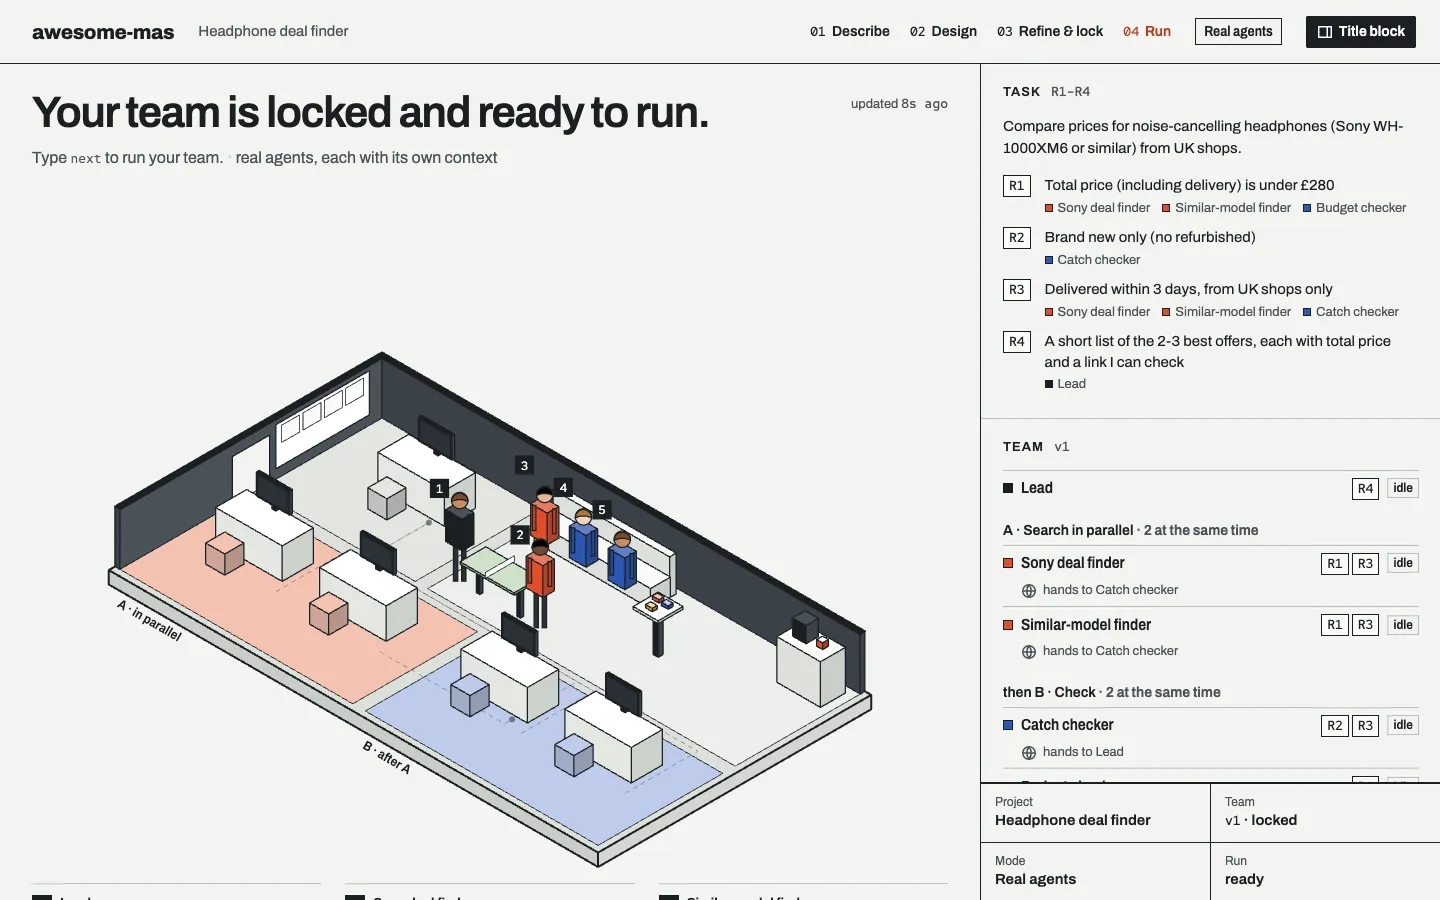
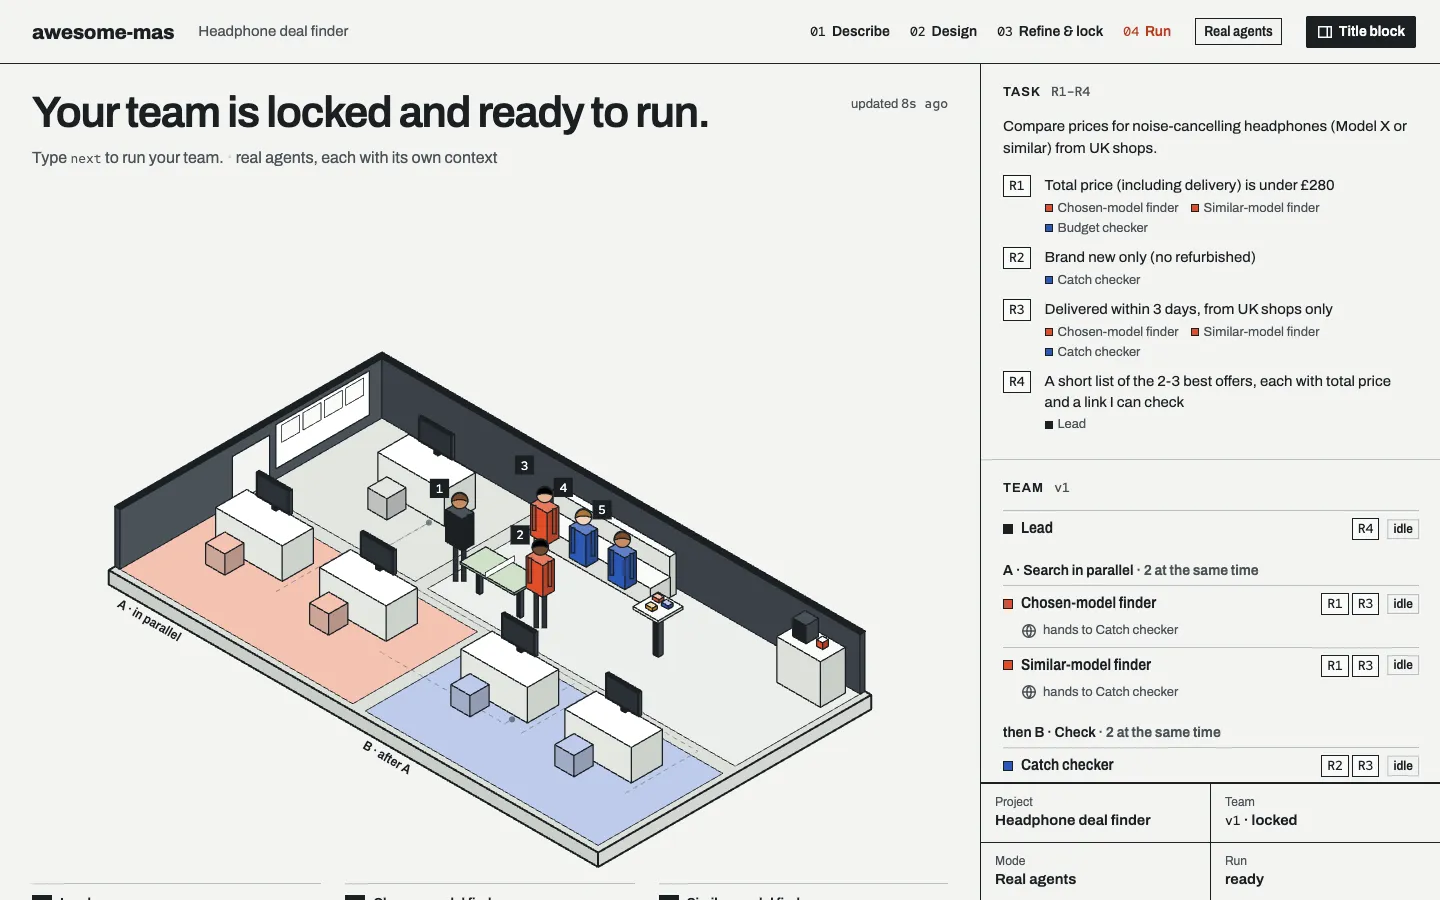
Open the panel in every conversation; no brands in the tutorial
The panel was opened only during setup, so a student who set up at home
and reopened the project in class saw no browser page. The assistant now
opens it at the start of every conversation, says where office/index.html
is in case nothing appeared, and opens it again when the student asks.
The Windows line is split into PowerShell (Start-Process) and Command
Prompt / Git Bash (start ""), since start "" fails in PowerShell. The
tutorial and README explain what to do if the panel didn't open.

The tutorial and README examples no longer name products or shops: the
example task says "one model I already have in mind", the exact-model
role is the Chosen-model finder, and the six screenshots are rendered
from a de-branded copy of the price-compare example.

diff --git a/docs/index.html b/docs/index.html
@@ -259,7 +259,7 @@
       </div>
       <figure class="shot">
         <img src="img/step4-result.webp" width="1440" height="900" alt="The awesome-mas panel after a finished run: an axonometric office where five agents gathered at the party table, and on the right the result: a shortlist of three headphone offers with total prices and links.">
-        <figcaption>Where you will end: your team in the office, and the answer to your task on the right. This is a real run from the price-comparison example.</figcaption>
+        <figcaption>Where you will end: your team in the office, and the answer to your task on the right. This is a real run from the price-comparison example, with product and shop names replaced by placeholders.</figcaption>
       </figure>
     </div>
 
@@ -403,6 +403,7 @@
 
           <h3>A4 · Put the chat and the panel side by side</h3>
           <p>From now on you <b>talk</b> in your assistant and <b>watch</b> the panel. Put the chat on the left half of your screen and the panel on the right. The panel updates by itself; if it ever looks stuck, reload the page.</p>
+          <p>Your assistant opens the panel at setup and again at the start of every new conversation. If no browser page appeared, type <code>open the panel</code>, or double-click <code>office/index.html</code> in your folder (e.g. <code>my-mas</code> on your Desktop).</p>
         </section>
 
         <!-- 1 -->
@@ -414,9 +415,9 @@
             <div><dt>You get</dt><dd>Requirements <span class="num">R1</span>, <span class="num">R2</span>…</dd></div>
             <div><dt>Ingredient</dt><dd>Memory</dd></div>
           </dl>
-          <p>Type <code>next</code>. Your assistant interviews you with <b>five questions, one at a time</b>, and waits for each answer. Answer in your own words, in any language. The example answers below are from the real price-comparison example in your folder.</p>
+          <p>Type <code>next</code>. Your assistant interviews you with <b>five questions, one at a time</b>, and waits for each answer. Answer in your own words, in any language. The example answers below are from the real price-comparison example in your folder, without product names.</p>
           <ol class="qs">
-            <li><span class="q-n">Q1</span><div><p class="q-t">What should your assistant help you do?</p><p class="q-h">Say the task in one or two sentences.</p><p class="q-ex"><b>Example</b>Compare prices before I buy noise-cancelling headphones (Sony WH-1000XM6 or similar).</p></div></li>
+            <li><span class="q-n">Q1</span><div><p class="q-t">What should your assistant help you do?</p><p class="q-h">Say the task in one or two sentences.</p><p class="q-ex"><b>Example</b>Compare prices before I buy noise-cancelling headphones (one model I already have in mind, or similar).</p></div></li>
             <li><span class="q-n">Q2</span><div><p class="q-t">What are your preferences and limits?</p><p class="q-h">Budget, time, things to avoid. Numbers help: they become checkable requirements.</p><p class="q-ex"><b>Example</b>Under £280 total including delivery, must be brand new (not refurbished), delivered within 3 days, UK shops only.</p></div></li>
             <li><span class="q-n">Q3</span><div><p class="q-t">What does a good result look like? How will you judge it?</p><p class="q-h">The shape of the answer you want to receive.</p><p class="q-ex"><b>Example</b>A short list of the 2–3 best offers with total price and links I can check.</p></div></li>
             <li><span class="q-n">Q4</span><div><p class="q-t">Will you do this again? How often?</p><p class="q-h">This tells your assistant whether a reusable team is worth it.</p><p class="q-ex"><b>Example</b>Yes, I'll use it again for a monitor next month.</p></div></li>
@@ -465,7 +466,7 @@
           <table>
             <thead><tr><th scope="col">Role</th><th scope="col">Serves</th><th scope="col">Why it exists</th><th scope="col">Group</th></tr></thead>
             <tbody>
-              <tr><td>Sony deal finder</td><td><span class="num">R1 R3</span></td><td>Searches UK shops for the exact model</td><td><span class="num">A</span></td></tr>
+              <tr><td>Chosen-model finder</td><td><span class="num">R1 R3</span></td><td>Searches UK shops for the model you picked</td><td><span class="num">A</span></td></tr>
               <tr><td>Similar-model finder</td><td><span class="num">R1 R3</span></td><td>A different source: similar headphones, at the same time</td><td><span class="num">A</span></td></tr>
               <tr><td>Catch checker</td><td><span class="num">R2 R3</span></td><td>An independent check for refurbished stock and slow delivery</td><td><span class="num">B</span></td></tr>
               <tr><td>Budget checker</td><td><span class="num">R1</span></td><td>An independent check of every total, delivery included</td><td><span class="num">B</span></td></tr>
@@ -502,7 +503,7 @@
             <li><em>“Add a budget checker that re-checks every total.”</em></li>
             <li><em>“Merge the two finders into one.”</em> (cheaper, but no longer at the same time)</li>
             <li><em>“The catch checker should also check the seller is in the UK.”</em></li>
-            <li><em>“Remove the similar-model finder; I only want the Sony.”</em></li>
+            <li><em>“Remove the similar-model finder; I only want the model I picked.”</em></li>
             <li><em>“Why do we need two checkers?”</em> (questions are fine too)</li>
           </ul>
           <p>Push back on every extra agent: more agents means more tokens and more time. If a change leaves a requirement unserved, your assistant tells you, but the choice stays yours.</p>
@@ -538,7 +539,7 @@
             <li><b>Click a person</b> to follow only their thread; everything else dims. Click again to go back.</li>
           </ul>
           <figure class="shot see">
-            <img src="img/step4-run.webp" width="1440" height="900" loading="lazy" decoding="async" alt="The panel during a run: the headline reads that the Sony deal finder and the Similar-model finder are working at the same time; both sit typing in the vermilion room of group A while the two checkers wait in the blue room of group B.">
+            <img src="img/step4-run.webp" width="1440" height="900" loading="lazy" decoding="async" alt="The panel during a run: the headline reads that the Chosen-model finder and the Similar-model finder are working at the same time; both sit typing in the vermilion room of group A while the two checkers wait in the blue room of group B.">
             <figcaption>During the run: group A's two finders work at the same time while group B's checkers wait their turn.</figcaption>
           </figure>
           <h3 class="minor">When it's done</h3>
@@ -642,6 +643,7 @@
           <details><summary><code>agy</code> is not found.</summary><div><p>Close the terminal, open a new one and paste the A1 line again: it skips the install if Antigravity is already there. Still not found? Read the install's last lines: it says where it put <code>agy</code>. The official guide is at <a href="https://antigravity.google/docs/getting-started?tab=cli">antigravity.google</a>.</p></div></details>
           <details><summary>The setup sentence fails: it can't download.</summary><div><p>Use the ZIP: download it from the link under A2, unzip it, move everything inside <code>awesome-mas-main</code> into your folder, then open the folder in your tool and type <code>next</code>.</p></div></details>
           <details><summary>Every file edit asks me for permission.</summary><div><p>You started your tool without the no-questions option. In the Antigravity CLI, type <code>/exit</code>, then start it again in your folder with <code>agy --dangerously-skip-permissions</code> (Claude Code: <code>claude --dangerously-skip-permissions</code>; Codex: <code>codex --search --dangerously-bypass-approvals-and-sandbox</code>). In Claude Code or the Claude app, restart it in this folder and choose to trust it. In other tools, choose the mode that accepts file edits in this folder.</p></div></details>
+          <details><summary>The panel didn't open.</summary><div><p>Type <code>open the panel</code> in your assistant. Or open your folder (e.g. <code>my-mas</code> on your Desktop) and double-click <code>office/index.html</code>. Keep that page open: it follows every MAS in this folder.</p></div></details>
           <details><summary>The panel doesn't update.</summary><div><p>Reload the browser page. Make sure you opened the <code>office/index.html</code> inside your project folder, not a copy somewhere else.</p></div></details>
           <details><summary>My assistant doesn't follow the steps.</summary><div><p>Type <code>Read AGENTS.md and follow it.</code> and then <code>next</code>.</p></div></details>
           <details><summary>It says role-play instead of real agents.</summary><div><p>Your tool can't start separate agents here, so your assistant plays each role in turn. The steps and the office are the same; it just takes longer, and the panel says so honestly.</p></div></details>

diff --git a/README.md b/README.md
@@ -18,7 +18,7 @@ you shape the team by chatting, and you watch the agents work together in a live
 
 <img src="docs/img/step4-result.webp" alt="The awesome-mas panel after a finished run: an axonometric office where five agents gathered at the party table, and on the right the result: a shortlist of three headphone offers with total prices and links" width="900">
 
-<sub>Where you will end: your team in the office, and the answer to your task on the right. A real run from the price-comparison example.</sub>
+<sub>Where you will end: your team in the office, and the answer to your task on the right. A real run from the price-comparison example, with product and shop names replaced by placeholders.</sub>
 
 </div>
 
@@ -182,15 +182,17 @@ You don't need to do anything here (in an app, approve when asked). It explains 
 
 From now on you **talk** in your assistant and **watch** the panel. Put the chat on the left half of your screen and the panel on the right. The panel updates by itself; if it ever looks stuck, reload the page.
 
+Your assistant opens the panel at setup and again at the start of every new conversation. If no browser page appeared, type `open the panel`, or double-click `office/index.html` in your folder (e.g. `my-mas` on your Desktop).
+
 ## Step 1 · Describe your task
 
 > **You type** `next`, then 5 answers · **Time** about 10–15 min · **You get** requirements R1, R2… · **Ingredient** memory
 
-Type `next`. Your assistant interviews you with **five questions, one at a time**, and waits for each answer. Answer in your own words, in any language. The examples are from the real price-comparison example in your folder.
+Type `next`. Your assistant interviews you with **five questions, one at a time**, and waits for each answer. Answer in your own words, in any language. The examples are from the real price-comparison example in your folder, without product names.
 
 | | Question | Hint | Example answer |
 |---|---|---|---|
-| **Q1** | What should your assistant help you do? | Say the task in one or two sentences. | Compare prices before I buy noise-cancelling headphones (Sony WH-1000XM6 or similar). |
+| **Q1** | What should your assistant help you do? | Say the task in one or two sentences. | Compare prices before I buy noise-cancelling headphones (one model I already have in mind, or similar). |
 | **Q2** | What are your preferences and limits? | Budget, time, things to avoid. Numbers help: they become checkable requirements. | Under £280 total including delivery, must be brand new (not refurbished), delivered within 3 days, UK shops only. |
 | **Q3** | What does a good result look like? How will you judge it? | The shape of the answer you want to receive. | A short list of the 2–3 best offers with total price and links I can check. |
 | **Q4** | Will you do this again? How often? | This tells your assistant whether a reusable team is worth it. | Yes, I'll use it again for a monitor next month. |
@@ -234,7 +236,7 @@ Type `next`. Your assistant derives a team from *your* requirements: a **Lead** 
 
 | Role | Serves | Why it exists | Group |
 |---|---|---|---|
-| Sony deal finder | R1 R3 | Searches UK shops for the exact model | A |
+| Chosen-model finder | R1 R3 | Searches UK shops for the model you picked | A |
 | Similar-model finder | R1 R3 | A different source: similar headphones, at the same time | A |
 | Catch checker | R2 R3 | An independent check for refurbished stock and slow delivery | B |
 | Budget checker | R1 | An independent check of every total, delivery included | B |
@@ -263,7 +265,7 @@ This is the step where you decide. Ask for as many changes as you like, one mess
 - *“Add a budget checker that re-checks every total.”*
 - *“Merge the two finders into one.”* (cheaper, but no longer at the same time)
 - *“The catch checker should also check the seller is in the UK.”*
-- *“Remove the similar-model finder; I only want the Sony.”*
+- *“Remove the similar-model finder; I only want the model I picked.”*
 - *“Why do we need two checkers?”* (questions are fine too)
 
 Push back on every extra agent: more agents means more tokens and more time. If a change leaves a requirement unserved, your assistant tells you, but the choice stays yours.
@@ -295,7 +297,7 @@ Type `next`. Your assistant tells you honestly how the agents will run: *separat
 - **Flags:** an agent that finds a problem stands up and raises a hand, with a yellow warning, e.g. “Refurbished: breaks R2”.
 - **Click a person** to follow only their thread; everything else dims. Click again to go back.
 
-<img src="docs/img/step4-run.webp" alt="The panel during a run: the headline reads that the Sony deal finder and the Similar-model finder are working at the same time; both sit typing in the vermilion room of group A while the two checkers wait in the blue room of group B" width="720">
+<img src="docs/img/step4-run.webp" alt="The panel during a run: the headline reads that the Chosen-model finder and the Similar-model finder are working at the same time; both sit typing in the vermilion room of group A while the two checkers wait in the blue room of group B" width="720">
 
 **When it's done**, your assistant gives you the answer in a few lines and points to `outputs/result.md`. The panel shows the same result on the right, every source with a link you can open, and an evidence grade from A (you can buy or run it) to D (opinion). The team gathers for a short celebration.
 
@@ -372,6 +374,12 @@ Use the ZIP: download it from the link under A2, unzip it, move everything insid
 <summary><b>Every file edit asks me for permission.</b></summary>
 
 You started your tool without the no-questions option. In the Antigravity CLI, type `/exit`, then start it again in your folder with `agy --dangerously-skip-permissions` (Claude Code: `claude --dangerously-skip-permissions`; Codex: `codex --search --dangerously-bypass-approvals-and-sandbox`). In Claude Code or the Claude app, restart it in this folder and choose to trust it. In other tools, choose the mode that accepts file edits in this folder.
+</details>
+
+<details>
+<summary><b>The panel didn't open.</b></summary>
+
+Type `open the panel` in your assistant. Or open your folder (e.g. `my-mas` on your Desktop) and double-click `office/index.html`. Keep that page open: it follows every MAS in this folder.
 </details>
 
 <details>

diff --git a/AGENTS.md b/AGENTS.md
@@ -15,7 +15,7 @@ Each MAS lives in its own folder next to this file (e.g. `headphone-deals/`), ho
 
 **Every path in `harness/` (e.g. `me/task.md`, `mas/status/lead.js`) is inside the current MAS folder** — write `headphone-deals/me/task.md`, never a top-level `me/`. Only `home/` is shared. Never write inside another MAS folder, `examples/`, `practice/`, `office/` or `harness/`.
 
-**Start of every conversation:** before anything else, do `choose` (`harness/operations.md`) — list the MAS folders and ask "Start a new MAS, or continue one of these?" (if there are none yet, go straight to describing a new one). Do this even if `home/projects.js` names a current MAS. Skip it only when `home/env.md` is missing (then do `setup` first).
+**Start of every conversation:** before anything else, open the panel (see Opening the panel — the student may have closed the browser since last time), then do `choose` (`harness/operations.md`) — list the MAS folders and ask "Start a new MAS, or continue one of these?" (if there are none yet, go straight to describing a new one). Do this even if `home/projects.js` names a current MAS. Skip it only when `home/env.md` is missing (then do `setup` first).
 
 **In every reply after a MAS is chosen** (including short progress updates during a run), start with one short line naming it, e.g. `MAS: headphone-deals`.
 
@@ -36,6 +36,7 @@ Each MAS lives in its own folder next to this file (e.g. `headphone-deals/`), ho
 |---|---|
 | the setup sentence, or anything when `home/env.md` is missing | `setup` |
 | `new`, "new MAS", or "switch to …" / a MAS name | `choose` |
+| "open the panel", "I can't see the office" | open the panel again (see Opening the panel) |
 | `next` | the next operation — see the table below |
 | a change in plain words ("add a budget checker") | `refine` (if the team is not locked; if locked, offer `unlock`) |
 | `run again` | `run` |
@@ -75,13 +76,14 @@ The panel animates the office from `mas/status/*.js`. **Before starting the firs
 
 ## Opening the panel
 
-The panel is `office/index.html`; one open page follows every MAS. To open it in the student's browser, run **one** shell command (this is allowed):
+The panel is `office/index.html`; one open page follows every MAS. Open it at setup and at the start of every conversation. To open it in the student's browser, run **one** shell command from this folder (this is allowed):
 
 - macOS: `open office/index.html`
-- Windows: `start "" "office\index.html"` (PowerShell: `Start-Process office/index.html`)
+- Windows, PowerShell: `Start-Process "office\index.html"`
+- Windows, Command Prompt or Git Bash: `start "" "office\index.html"`
 - Linux: `xdg-open office/index.html`
 
-If your app has a built-in browser (e.g. Claude app, Antigravity IDE), you can instead show the file path for the student to click. If shell commands are not possible, ask the student to double-click `office/index.html`.
+Then tell the student in one line: "The live panel should have opened in your browser. If not, double-click `office/index.html` in `<this folder's full path>`." If your app has a built-in browser (e.g. Claude app, Antigravity IDE), you can instead show the file path for the student to click. If shell commands are not possible or the command fails, give that line with the full path.
 
 ## Tone
 

diff --git a/harness/operations.md b/harness/operations.md
@@ -15,7 +15,7 @@ Goal: make this folder ready and tell the student what their tool can do. Runs o
 3. Web search: try one tiny search (e.g. "UK weather today"). `canSearch` = whether it worked.
 4. Subagents — **test, don't guess**: actually start one tiny subagent (instruction: "Reply with the single word ok") the way AGENTS.md → Running roles as agents describes. If it returns, `"parallel"`; if your tool has no way to start one or it fails, `"sequential"`. Say the result in your reply in the same words as the file — never claim parallel agents if the file says sequential.
 5. Write `home/env.js`. If `home/projects.js` does not exist, write it with `"current": null` and an empty `projects` list. (Old layout: if this folder already has a top-level `me/task.md`, ask the student for a short name and move `me/`, `mas/`, `team/`, `sources/`, `outputs/` and `raw/` into that MAS folder before going on.)
-6. Open the panel (AGENTS.md → Opening the panel).
+6. Open the panel (AGENTS.md → Opening the panel), and say where it is in case it didn't open.
 7. Give tool tips only if needed:
 
 | Tool | Tip |
